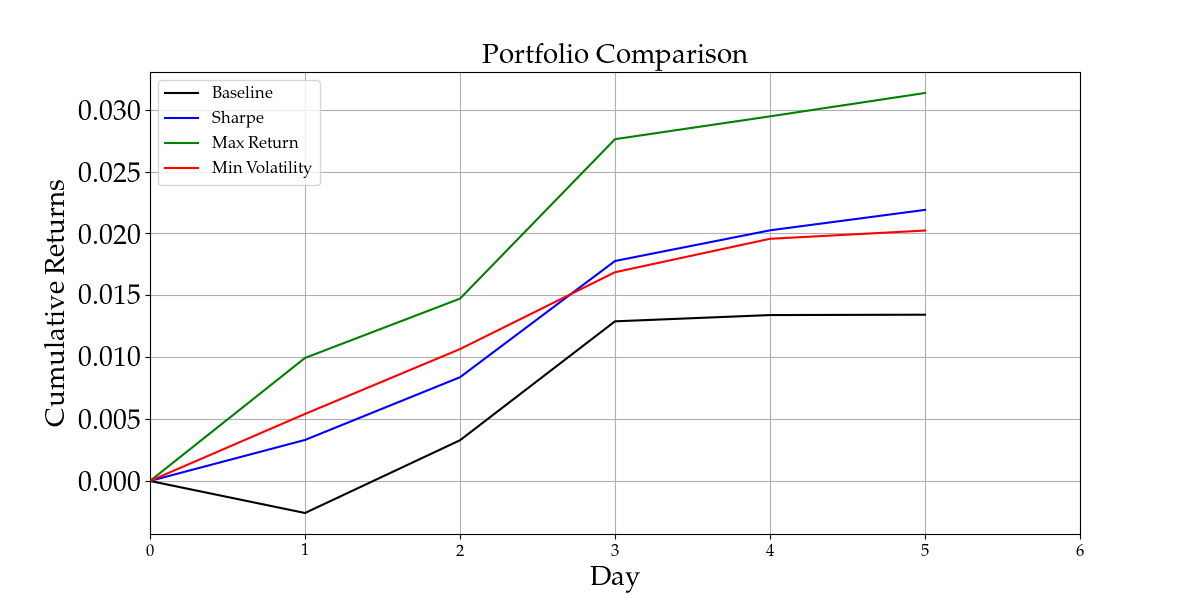
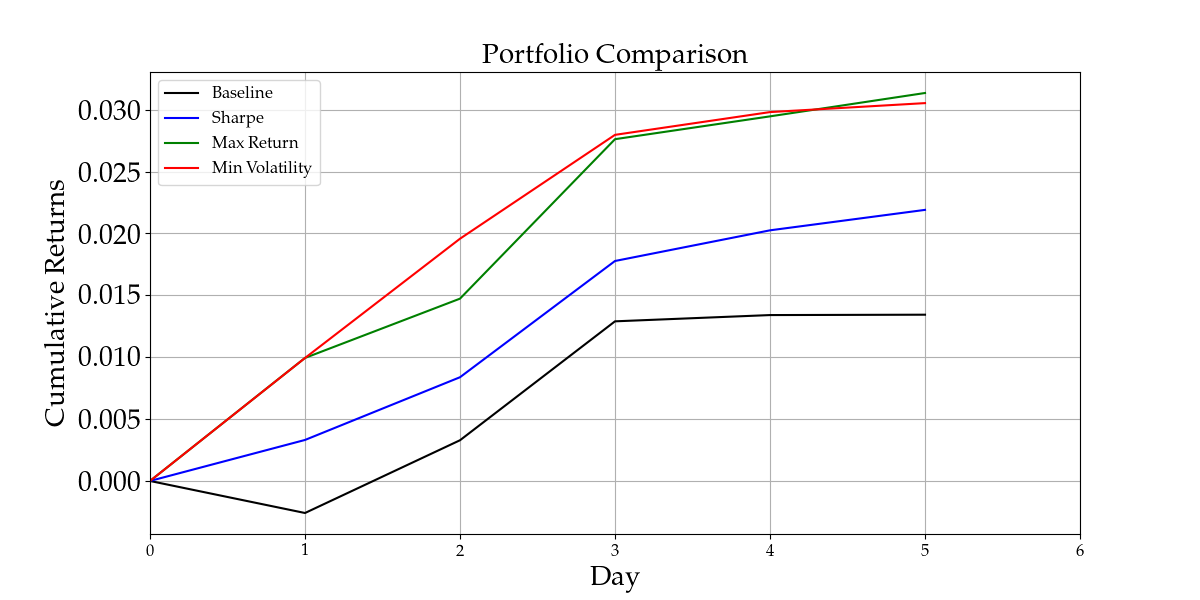
fix small bug for backtesting og dynamic strategy
fix small bug for backtesting og dynamic strategy

diff --git a/Multi-Input_GPR/Strategies/dynamic_strategy.py b/Multi-Input_GPR/Strategies/dynamic_strategy.py
@@ -21,7 +21,7 @@ class DynamicStrategy(Strategy):
     
     # Multivariate normal version
     # A should be previous time point, B should be current time point
-    def probability_A_greater_than_B_mvnorm(self, mu_A, cov_A, mu_B, cov_B, num_samples=100000):
+    def probability_A_greater_than_B_mvnorm(self, mu_A, cov_A, mu_B, cov_B, num_samples=1000):
         """
         Estimate the probability that A > B for two multivariate normal distributions A ~ N(mu_A, cov_A)
         and B ~ N(mu_B, cov_B) using Monte Carlo sampling.
@@ -51,6 +51,7 @@ class DynamicStrategy(Strategy):
 
         # Estimate the probability
         prob = count_A_greater_B / num_samples
+        print("Probability A > B: ", prob)
 
         return prob
 
@@ -66,21 +67,23 @@ class DynamicStrategy(Strategy):
         :param min_return: Minimum return constraint.
         :return: Optimal portfolio weights.
         """
-        print("mu_A: ", mu_A)
-        print("cov_A: ", cov_A)
-        print("mu_B: ", mu_B)
-        print("cov_B: ", cov_B)
-        print("prev_optimal_weights: ", prev_optimal_weights)
-        print("probability threshold: ", prob_threshold)
+        # print("mu_A: ", mu_A)
+        # print("cov_A: ", cov_A)
+        # print("mu_B: ", mu_B)
+        # print("cov_B: ", cov_B)
+        # print("prev_optimal_weights: ", prev_optimal_weights)
+        # print("probability threshold: ", prob_threshold)
         if mu_A is None:
             # If it is the first time point, optimize the portfolio to maximize returns
             optimal_weights = optimizer.maximize_returns(max_volatility)
         else:
             prob = self.probability_A_greater_than_B_mvnorm(mu_A, cov_A, mu_B, cov_B)
             if prob > prob_threshold:
+                print("Probability is greater than threshold, optimizing for returns")
                 optimal_weights = optimizer.maximize_returns(max_volatility)
             else:
                 # optimal weights stay the same as the previous time point
+                print("Probability is less than threshold, keeping the same weights as the previous time point")
                 optimal_weights = prev_optimal_weights
 
         return optimal_weights

diff --git a/Multi-Input_GPR/main.py b/Multi-Input_GPR/main.py
@@ -575,7 +575,7 @@ if __name__ == "__main__":
     portfolio_returns_volatility, transaction_costs_volatility = portfolio.backtest_portfolio(historical_returns=predicted_Y_values, strategy_name='min_volatility', optimal_weights=optimal_weights_min_volatility, predicted_volatilities=volatilities_min_volatility)    
 
     optimal_weights_dynamic, volatilities_dynamic = portfolio.evaluate_portfolio(strategy_name='dynamic', max_volatility=max_volatility_threshold, min_return=min_return_threshold, prob_threshold=prob_threshold, isLogReturn=isLogReturn, cov=full_corr)
-    portfolio_returns_volatility, transaction_costs_volatility = portfolio.backtest_portfolio(historical_returns=predicted_Y_values, strategy_name='dynamic', optimal_weights=optimal_weights_min_volatility, predicted_volatilities=volatilities_min_volatility)    
+    portfolio_returns_volatility, transaction_costs_volatility = portfolio.backtest_portfolio(historical_returns=predicted_Y_values, strategy_name='dynamic', optimal_weights=optimal_weights_dynamic, predicted_volatilities=volatilities_dynamic)    
  
 
     portfolio_returns.insert(0, 0.0)
